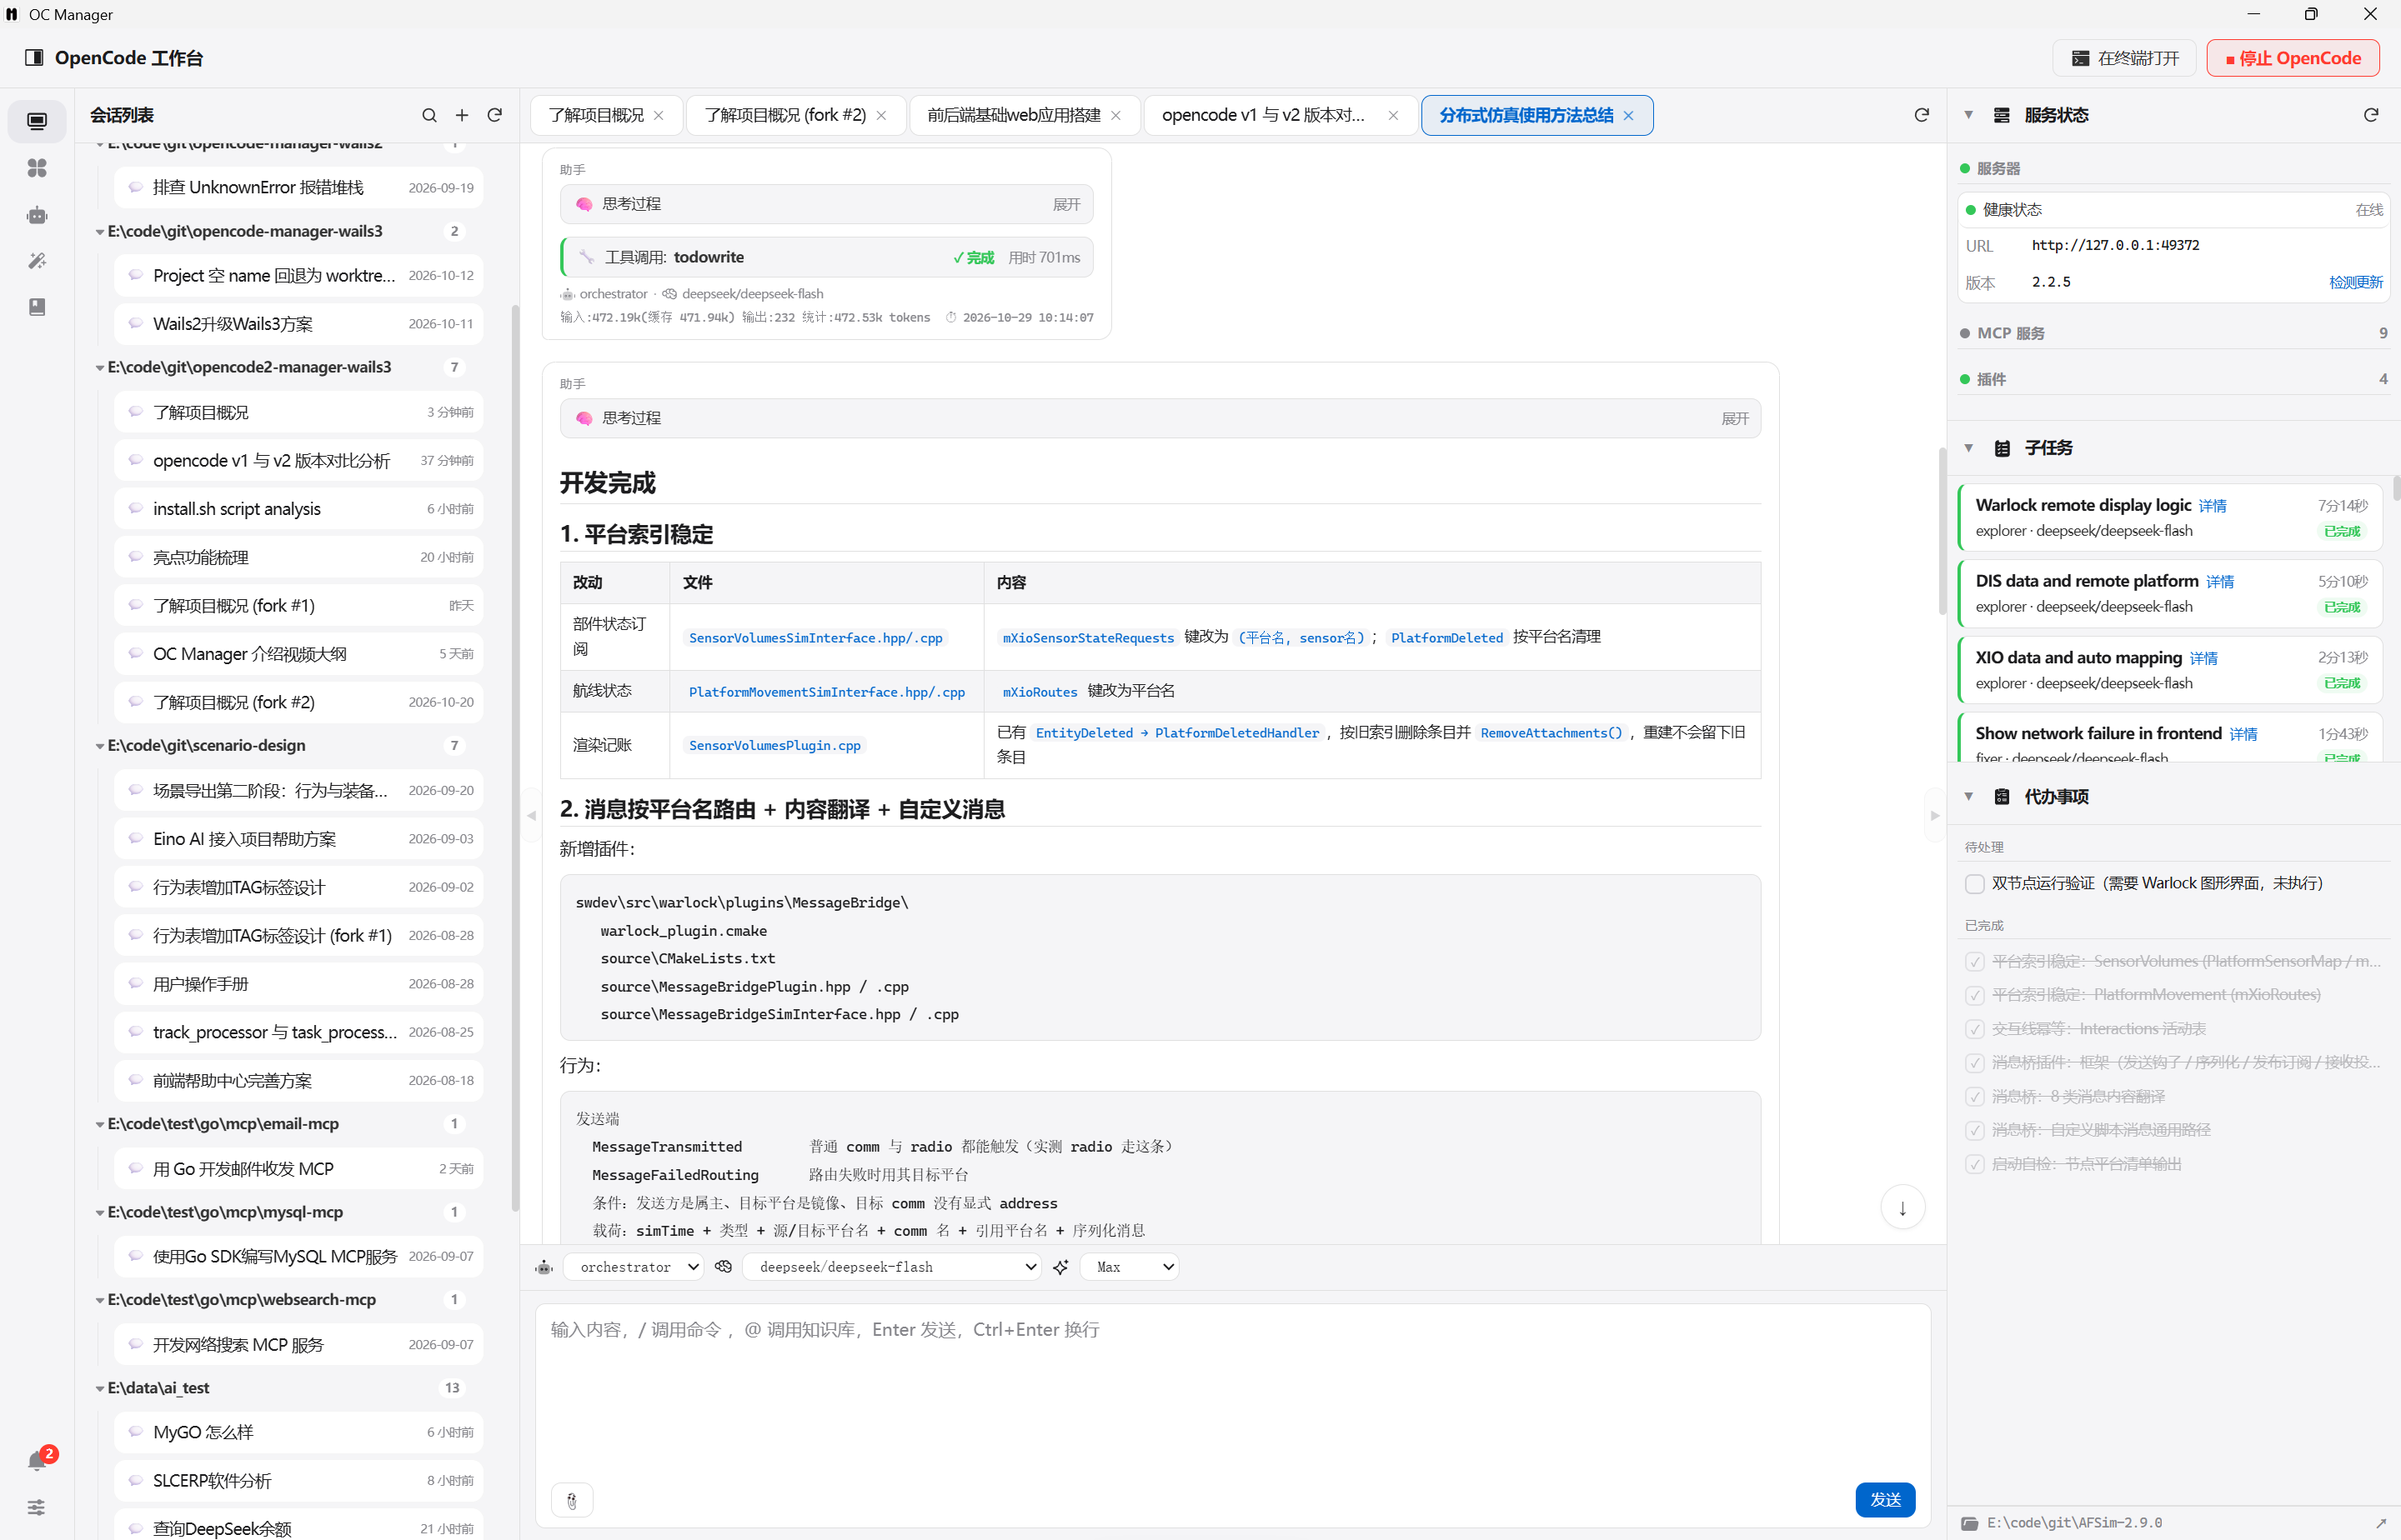
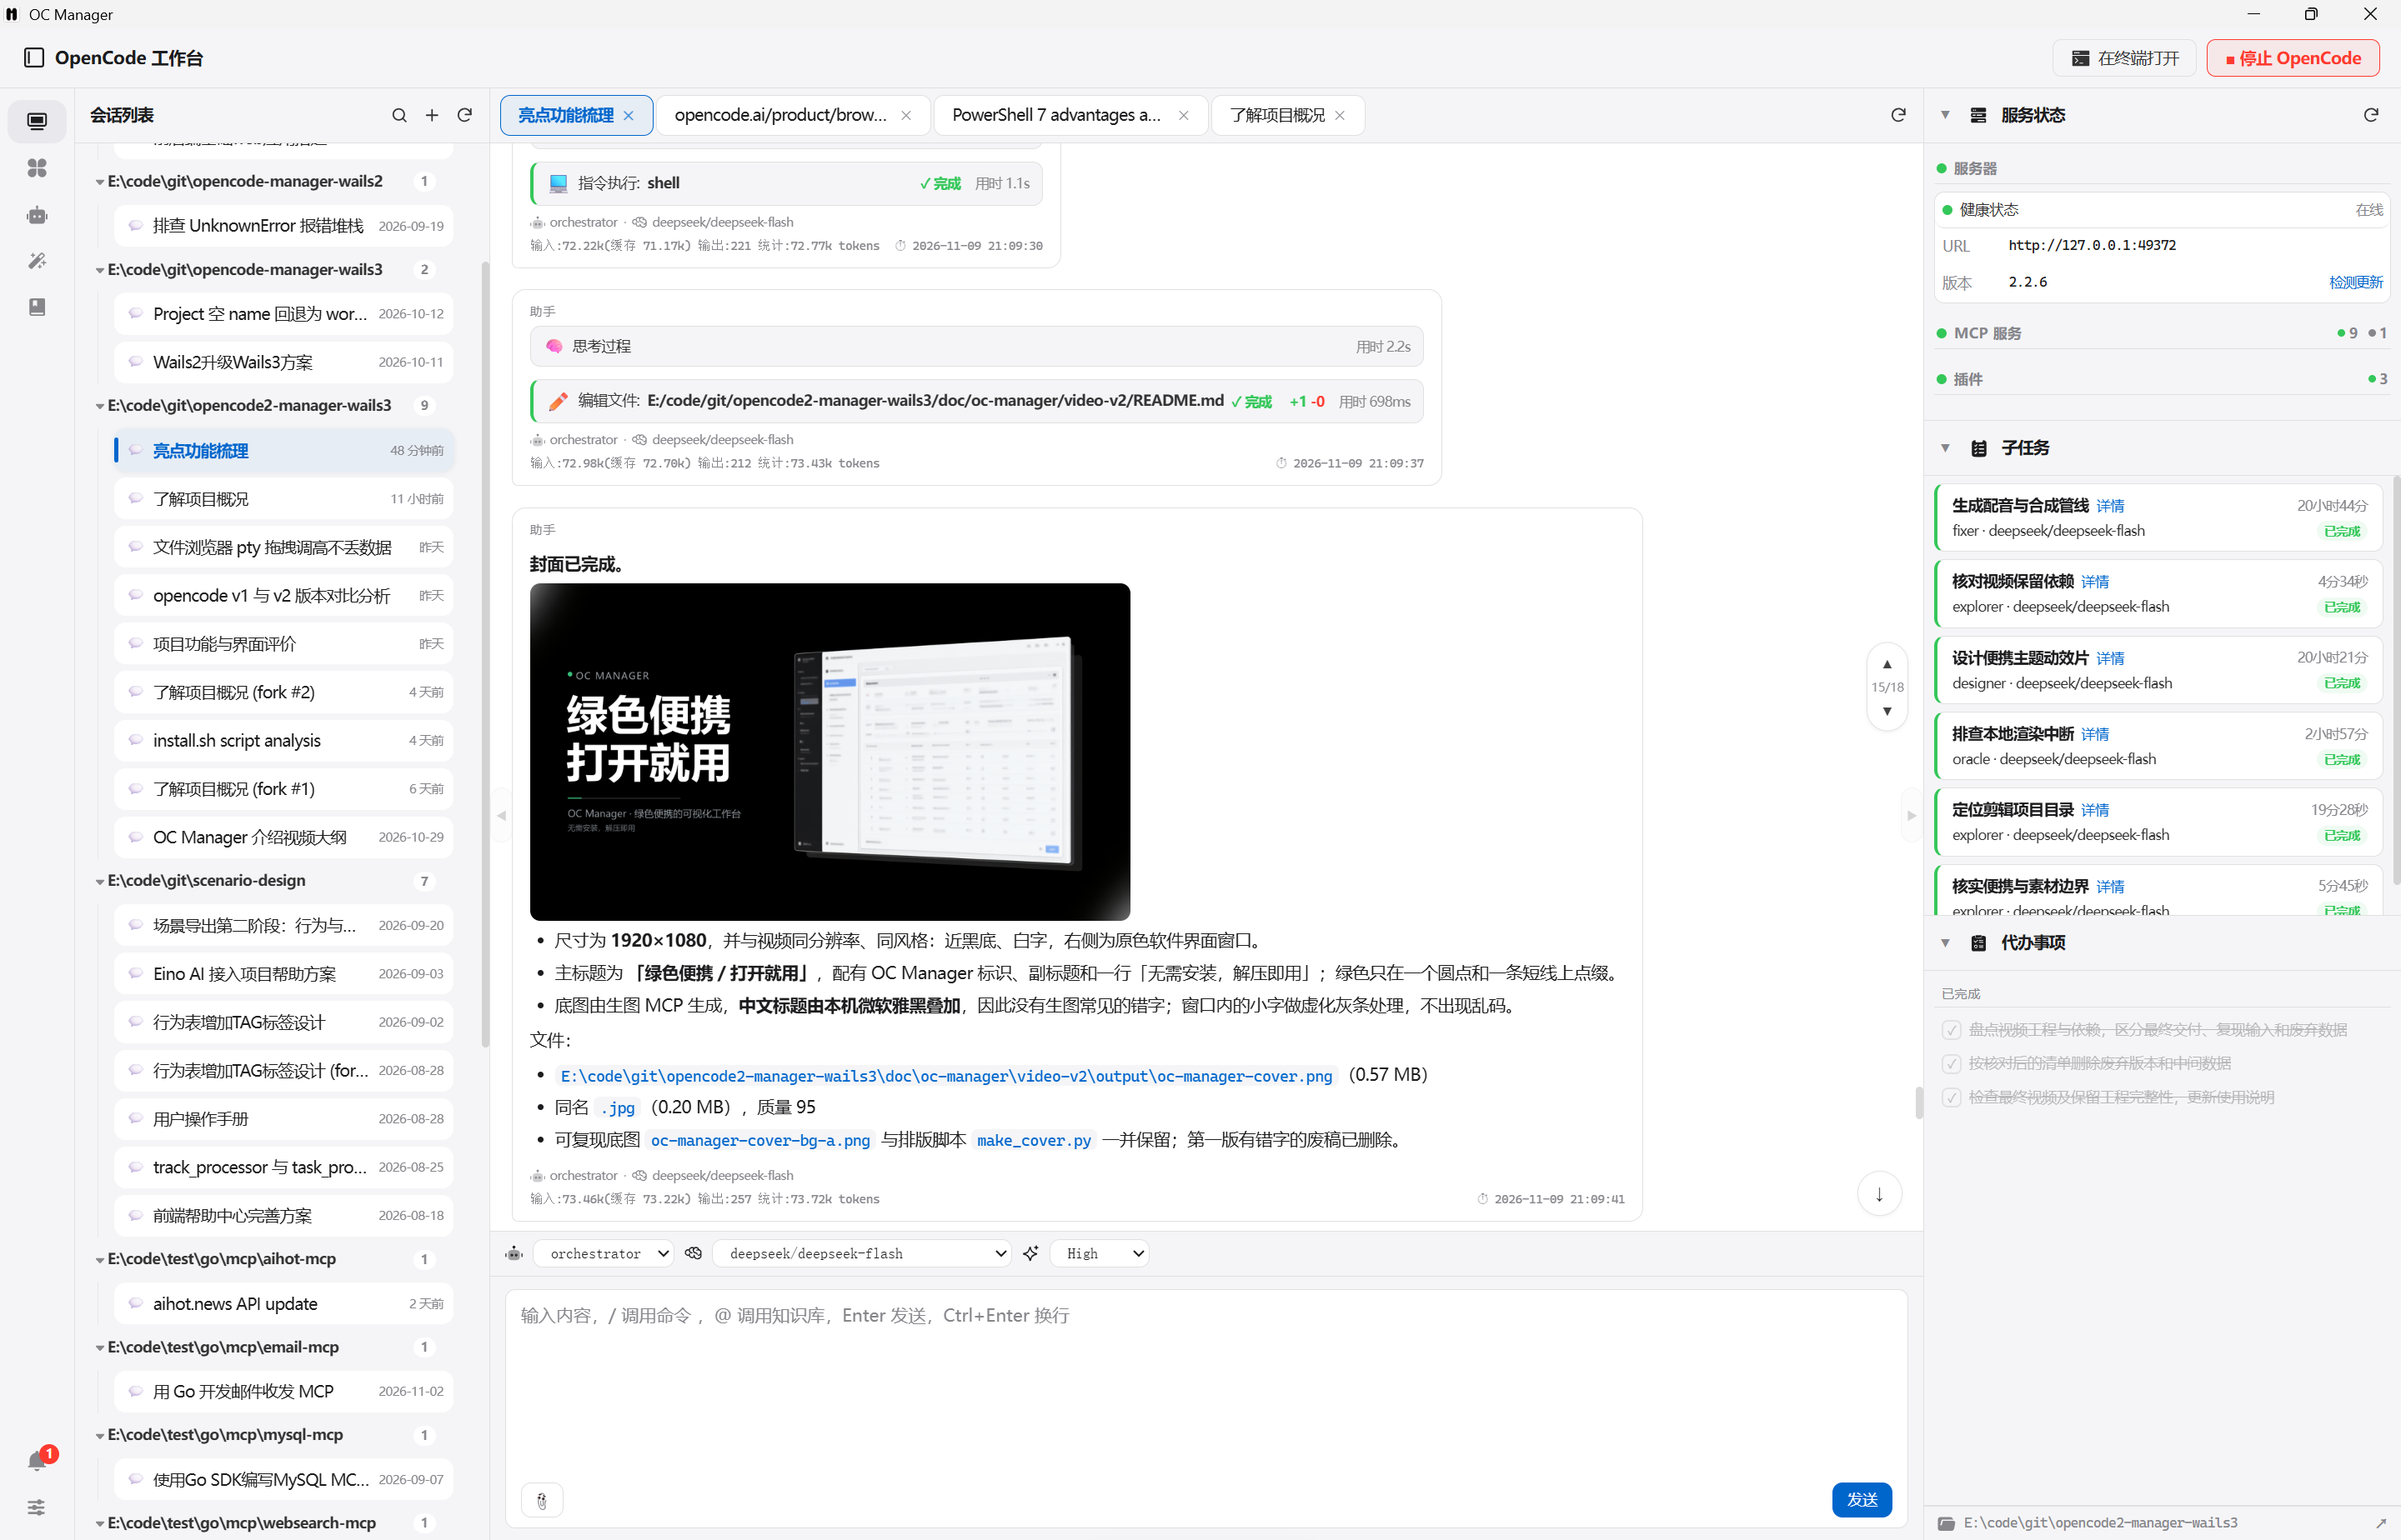
feat:新增复制会话ID

diff --git a/frontend/dist/chat/tree.js b/frontend/dist/chat/tree.js
@@ -12,7 +12,7 @@
 
 import { api } from '../core/apicall.js';
 import { store } from '../core/state.js';
-import { escapeHtml, showToast, showApiError, setMessagesEmpty, isBrowserRuntimeForMain, updateModelInfo, updateTreeActiveSession, setTreeActionHandlers } from '../core/utils.js';
+import { escapeHtml, showToast, showApiError, setMessagesEmpty, isBrowserRuntimeForMain, updateModelInfo, updateTreeActiveSession, setTreeActionHandlers, copyToClipboard } from '../core/utils.js';
 // 相对时间格式化统一走 core/format.js
 import { formatRelativeTime } from '../core/format.js';
 import { showConfirm, showPrompt } from '../core/dialog.js';
@@ -594,7 +594,8 @@ export function showTreeContextMenu(e, type, data) {
             item.style.display = (action === 'new-session' || action === 'project-config' || action === 'open-file-browser' || action === 'import') ? '' : 'none';
         } else if (type === 'session') {
             item.style.display = (action === 'rename' || action === 'delete'
-                || action === 'export' || action === 'move') ? '' : 'none';
+                || action === 'export' || action === 'move'
+                || action === 'copy-session-id') ? '' : 'none';
         } else {
             item.style.display = 'none';
         }
@@ -660,6 +661,12 @@ export function initTreeContextMenu() {
                 exportSession(data.sid);
             } else if (type === 'session' && action === 'move') {
                 moveSessionDialog(data.sid);
+            } else if (type === 'session' && action === 'copy-session-id') {
+                copyToClipboard(data.sid).then(function() {
+                    showToast('已复制会话 ID', 'success');
+                }).catch(function() {
+                    showToast('复制会话 ID 失败', 'error');
+                });
             } else if (action === 'import') {
                 importSessionDialog();
             }

diff --git a/frontend/dist/index.html b/frontend/dist/index.html
@@ -104,6 +104,7 @@
                             <div class="oc-tree-context-menu-item" data-action="delete"><span class="oc-menu-icon oc-menu-icon-delete"></span><span>删除会话</span></div>
                             <div class="oc-tree-context-menu-item" data-action="export"><span class="oc-menu-icon oc-menu-icon-export"></span><span>导出会话</span></div>
                             <div class="oc-tree-context-menu-item" data-action="move"><span class="oc-menu-icon oc-menu-icon-move"></span><span>移动到…</span></div>
+                            <div class="oc-tree-context-menu-item" data-action="copy-session-id"><span class="oc-menu-icon oc-menu-icon-copy"></span><span>复制会话 ID</span></div>
                             <div class="oc-tree-context-menu-item" data-action="import"><span class="oc-menu-icon oc-menu-icon-import"></span><span>导入会话…</span></div>
                         </div>
                         <div class="oc-tree-resize-handle" id="ocTreeResizeHandle" aria-hidden="true"></div>

diff --git a/frontend/dist/css/style.css b/frontend/dist/css/style.css
@@ -2170,6 +2170,10 @@ input::placeholder, textarea::placeholder {
     -webkit-mask-image: url("../assets/复制路径.svg");
     mask-image: url("../assets/复制路径.svg");
 }
+.oc-menu-icon-copy {
+    -webkit-mask-image: url("../assets/复制.svg");
+    mask-image: url("../assets/复制.svg");
+}
 
 /* 「打开位置」：复用打开目录图标（在文件管理器中定位） */
 .oc-menu-icon-reveal {
